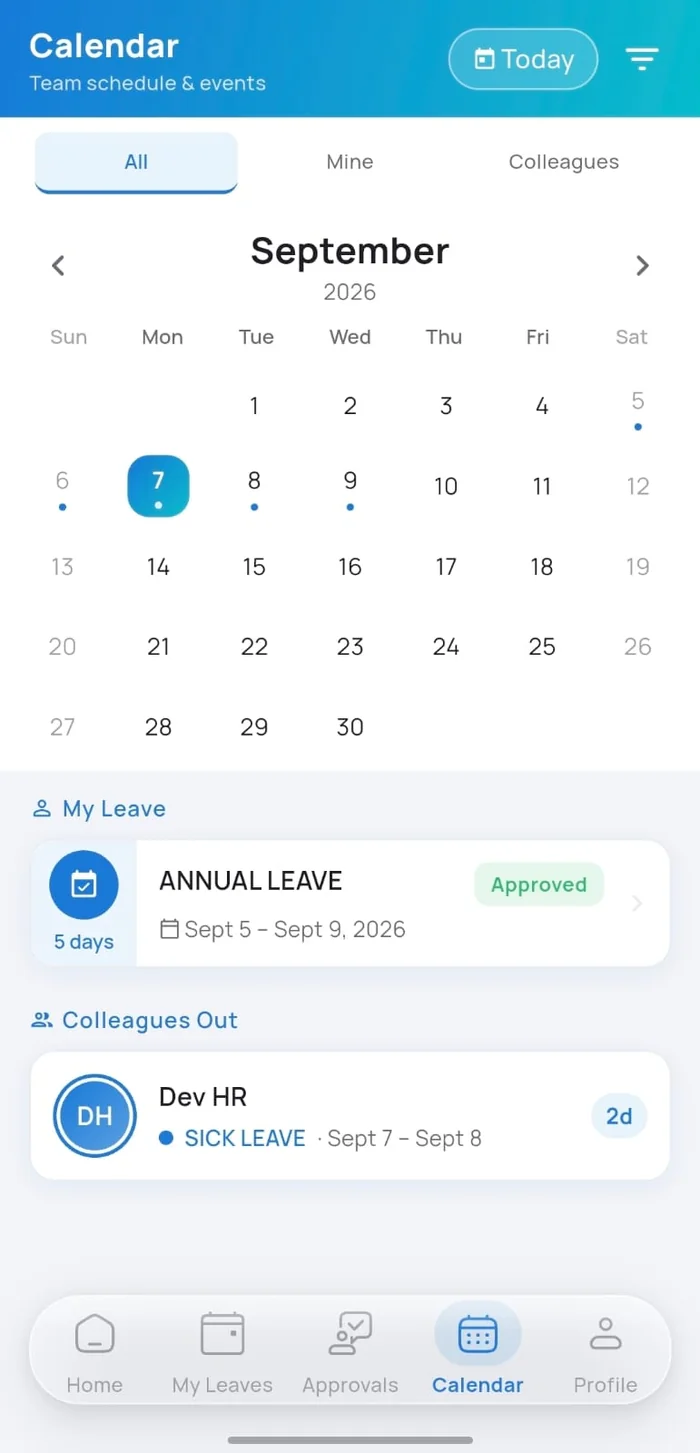
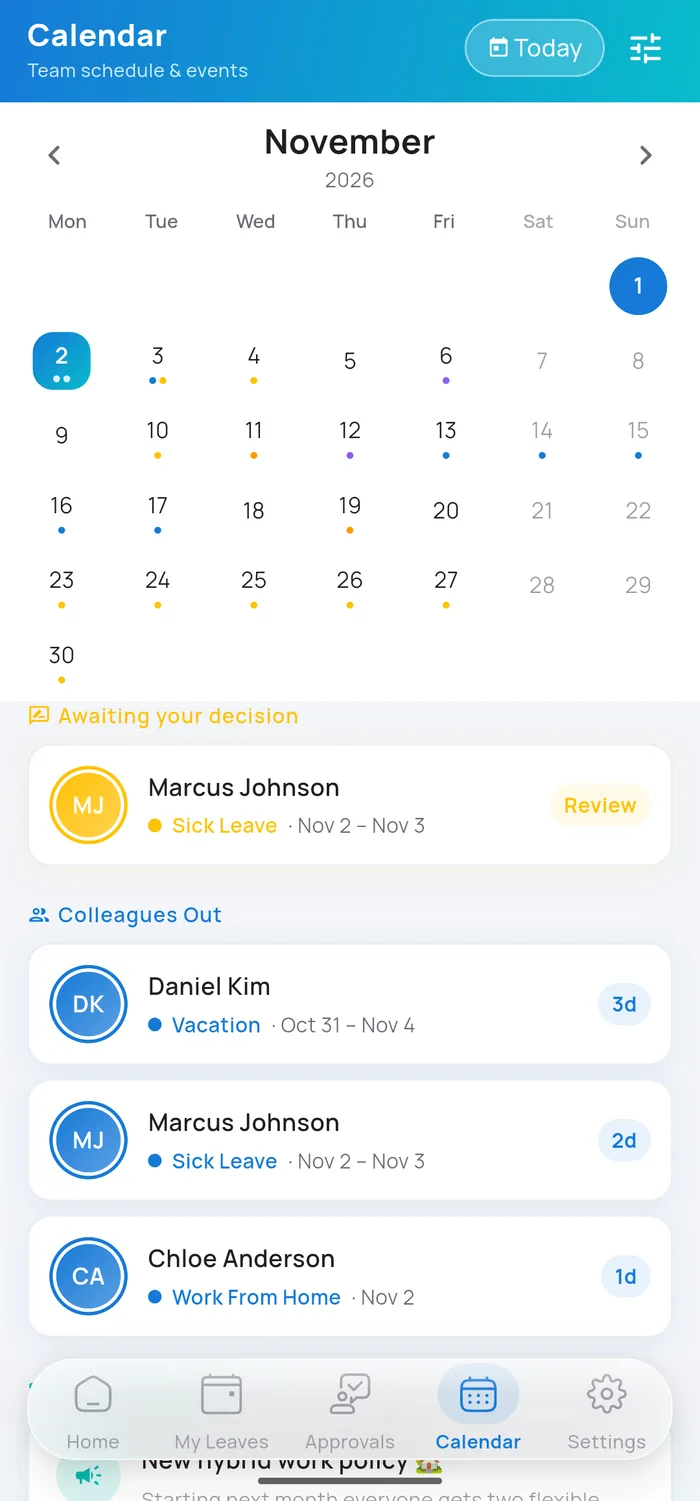
Use current app screenshots; Arabic ones on the Arabic home page
- Calendar, home and timesheet phone shots replaced with the current
  app (store raw screenshots, status bar cropped, 700px WebP)
- Arabic home page shows the Arabic versions from /ar/img/

diff --git a/ar/index.html b/ar/index.html
@@ -965,7 +965,7 @@
     <div class="hero-visual">
       <div class="phone">
         <div class="phone-screen">
-          <img src="/app-calendar.webp" alt="تطبيق FlexDays للجوال يعرض تقويم الفريق وإجازاتك والزملاء الغائبين" onerror="this.style.display='none';this.nextElementSibling.style.display='block';" />
+          <img src="/ar/img/app-calendar.webp" alt="تطبيق FlexDays للجوال يعرض تقويم الفريق وإجازاتك والزملاء الغائبين" onerror="this.style.display='none';this.nextElementSibling.style.display='block';" />
           <div class="phone-fallback">لقطة شاشة التطبيق غير متاحة حاليًا.</div>
         </div>
       </div>
@@ -1193,7 +1193,7 @@
       <div class="ts-visual ts-visual--shot reveal">
         <div class="phone">
           <div class="phone-screen">
-            <img src="/app-timesheet.webp" loading="lazy" decoding="async" alt="الجدول الزمني في تطبيق FlexDays للجوال يعرض الساعات الفعلية مقابل المتوقعة وتفصيل الأيام وقيود المشاريع" onerror="this.style.display='none';this.nextElementSibling.style.display='block';" />
+            <img src="/ar/img/app-timesheet.webp" loading="lazy" decoding="async" alt="الجدول الزمني في تطبيق FlexDays للجوال يعرض الساعات الفعلية مقابل المتوقعة وتفصيل الأيام وقيود المشاريع" onerror="this.style.display='none';this.nextElementSibling.style.display='block';" />
             <div class="phone-fallback">لقطة شاشة الجدول الزمني غير متاحة حاليًا.</div>
           </div>
         </div>
@@ -1281,7 +1281,7 @@
       <div class="onb-visual reveal">
         <div class="phone">
           <div class="phone-screen">
-            <img src="/app-home.webp" loading="lazy" decoding="async" alt="الشاشة الرئيسية في تطبيق FlexDays للجوال مع الإجازة القادمة والموافقات المعلّقة والأرصدة وجدول هذا الأسبوع" onerror="this.style.display='none';this.nextElementSibling.style.display='block';" />
+            <img src="/ar/img/app-home.webp" loading="lazy" decoding="async" alt="الشاشة الرئيسية في تطبيق FlexDays للجوال مع الإجازة القادمة والموافقات المعلّقة والأرصدة وجدول هذا الأسبوع" onerror="this.style.display='none';this.nextElementSibling.style.display='block';" />
             <div class="phone-fallback">لقطة الشاشة الرئيسية غير متاحة حاليًا.</div>
           </div>
         </div>
